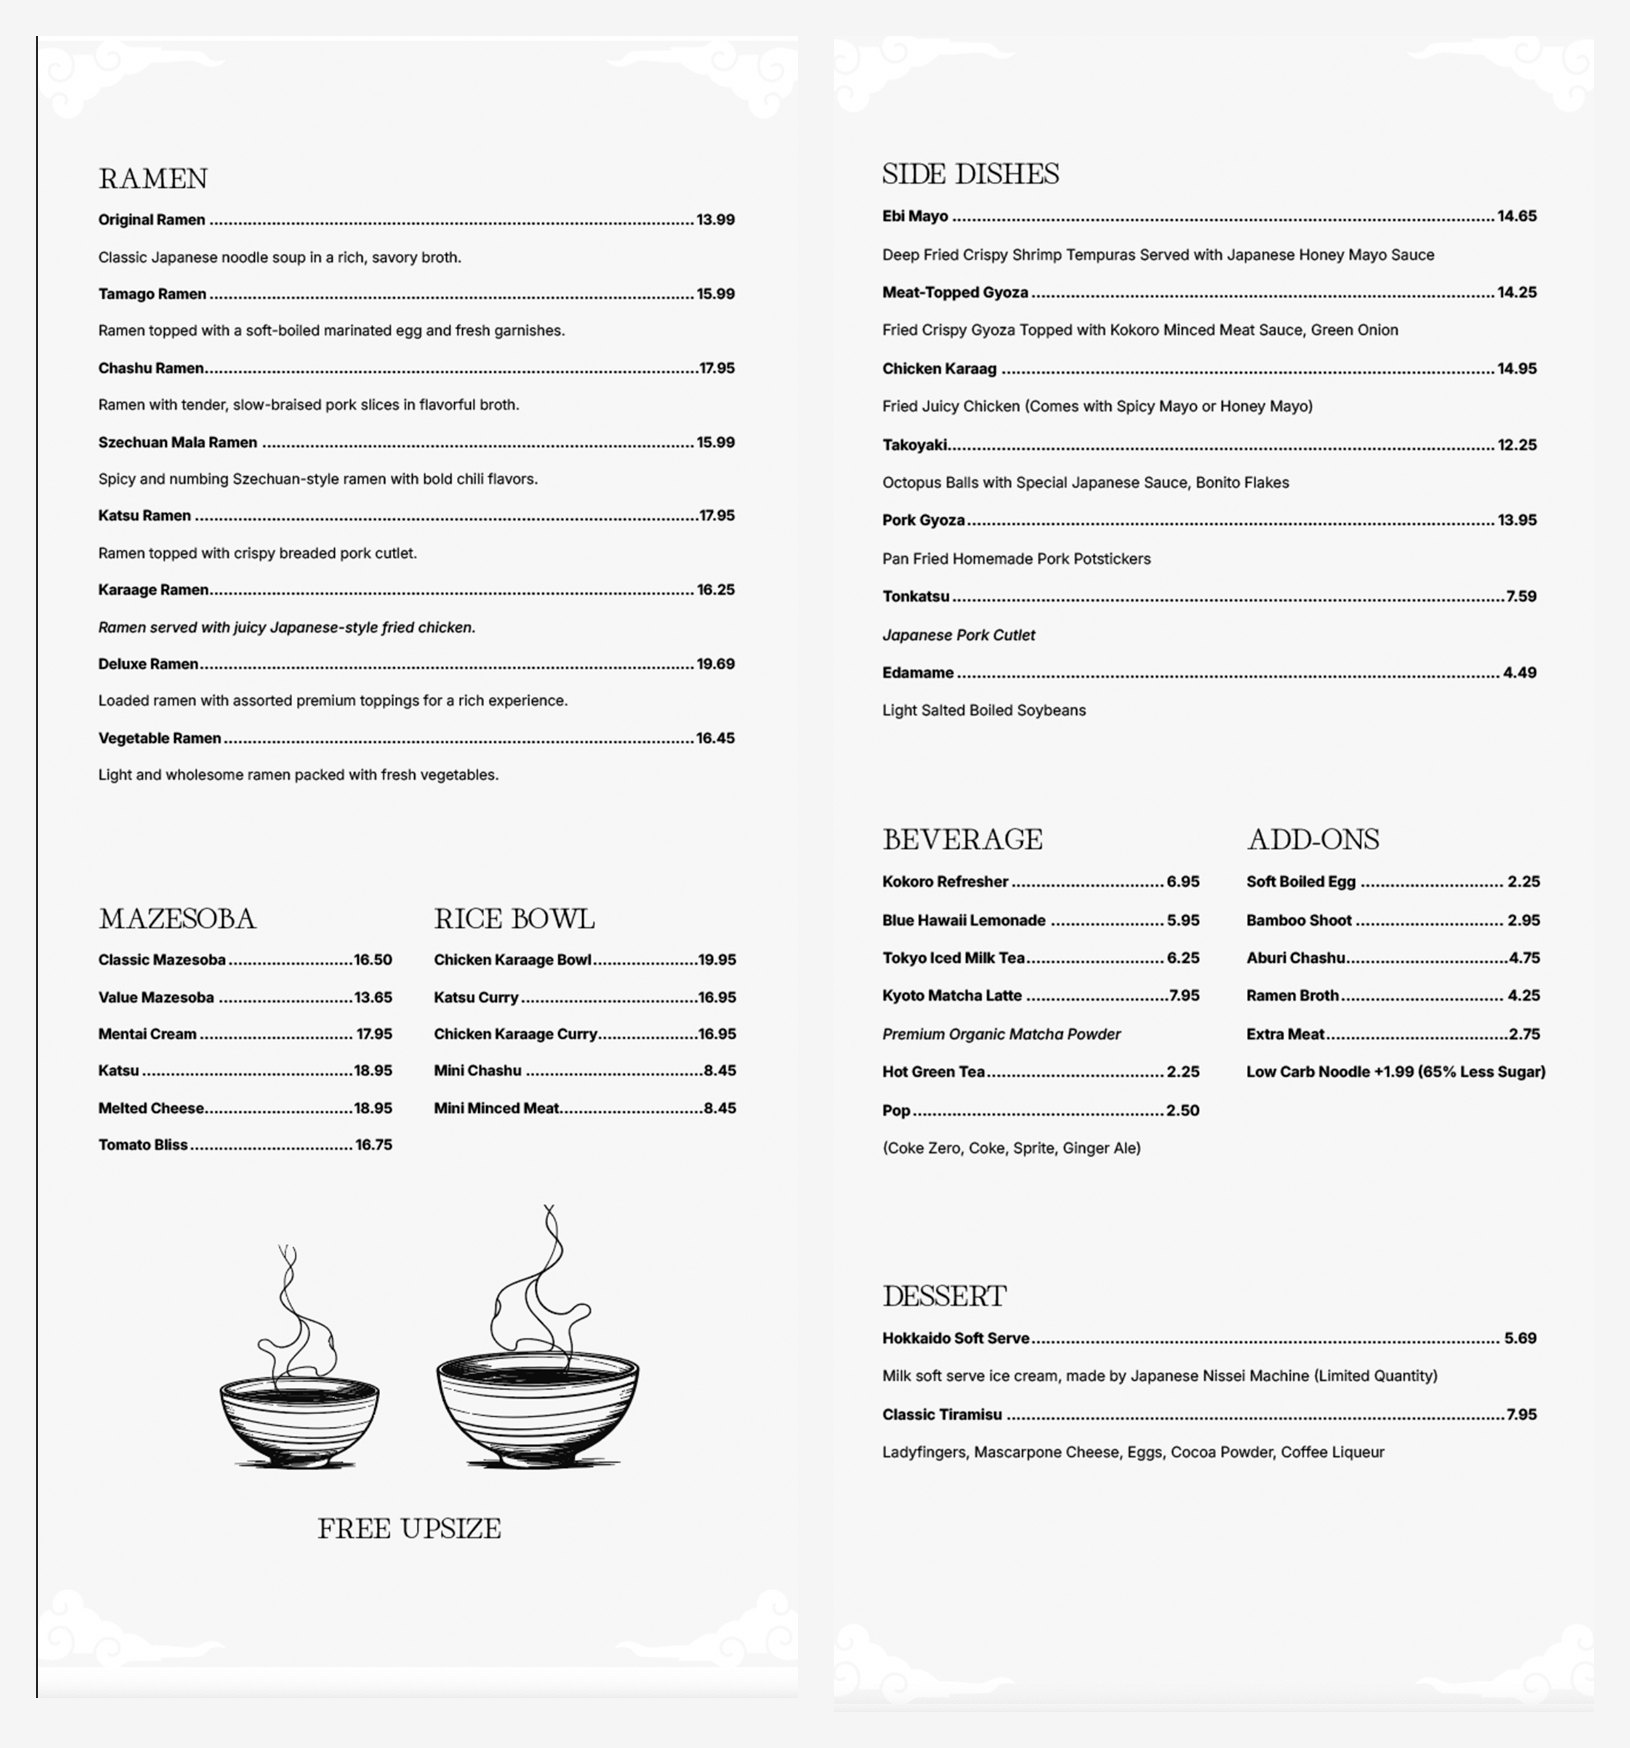
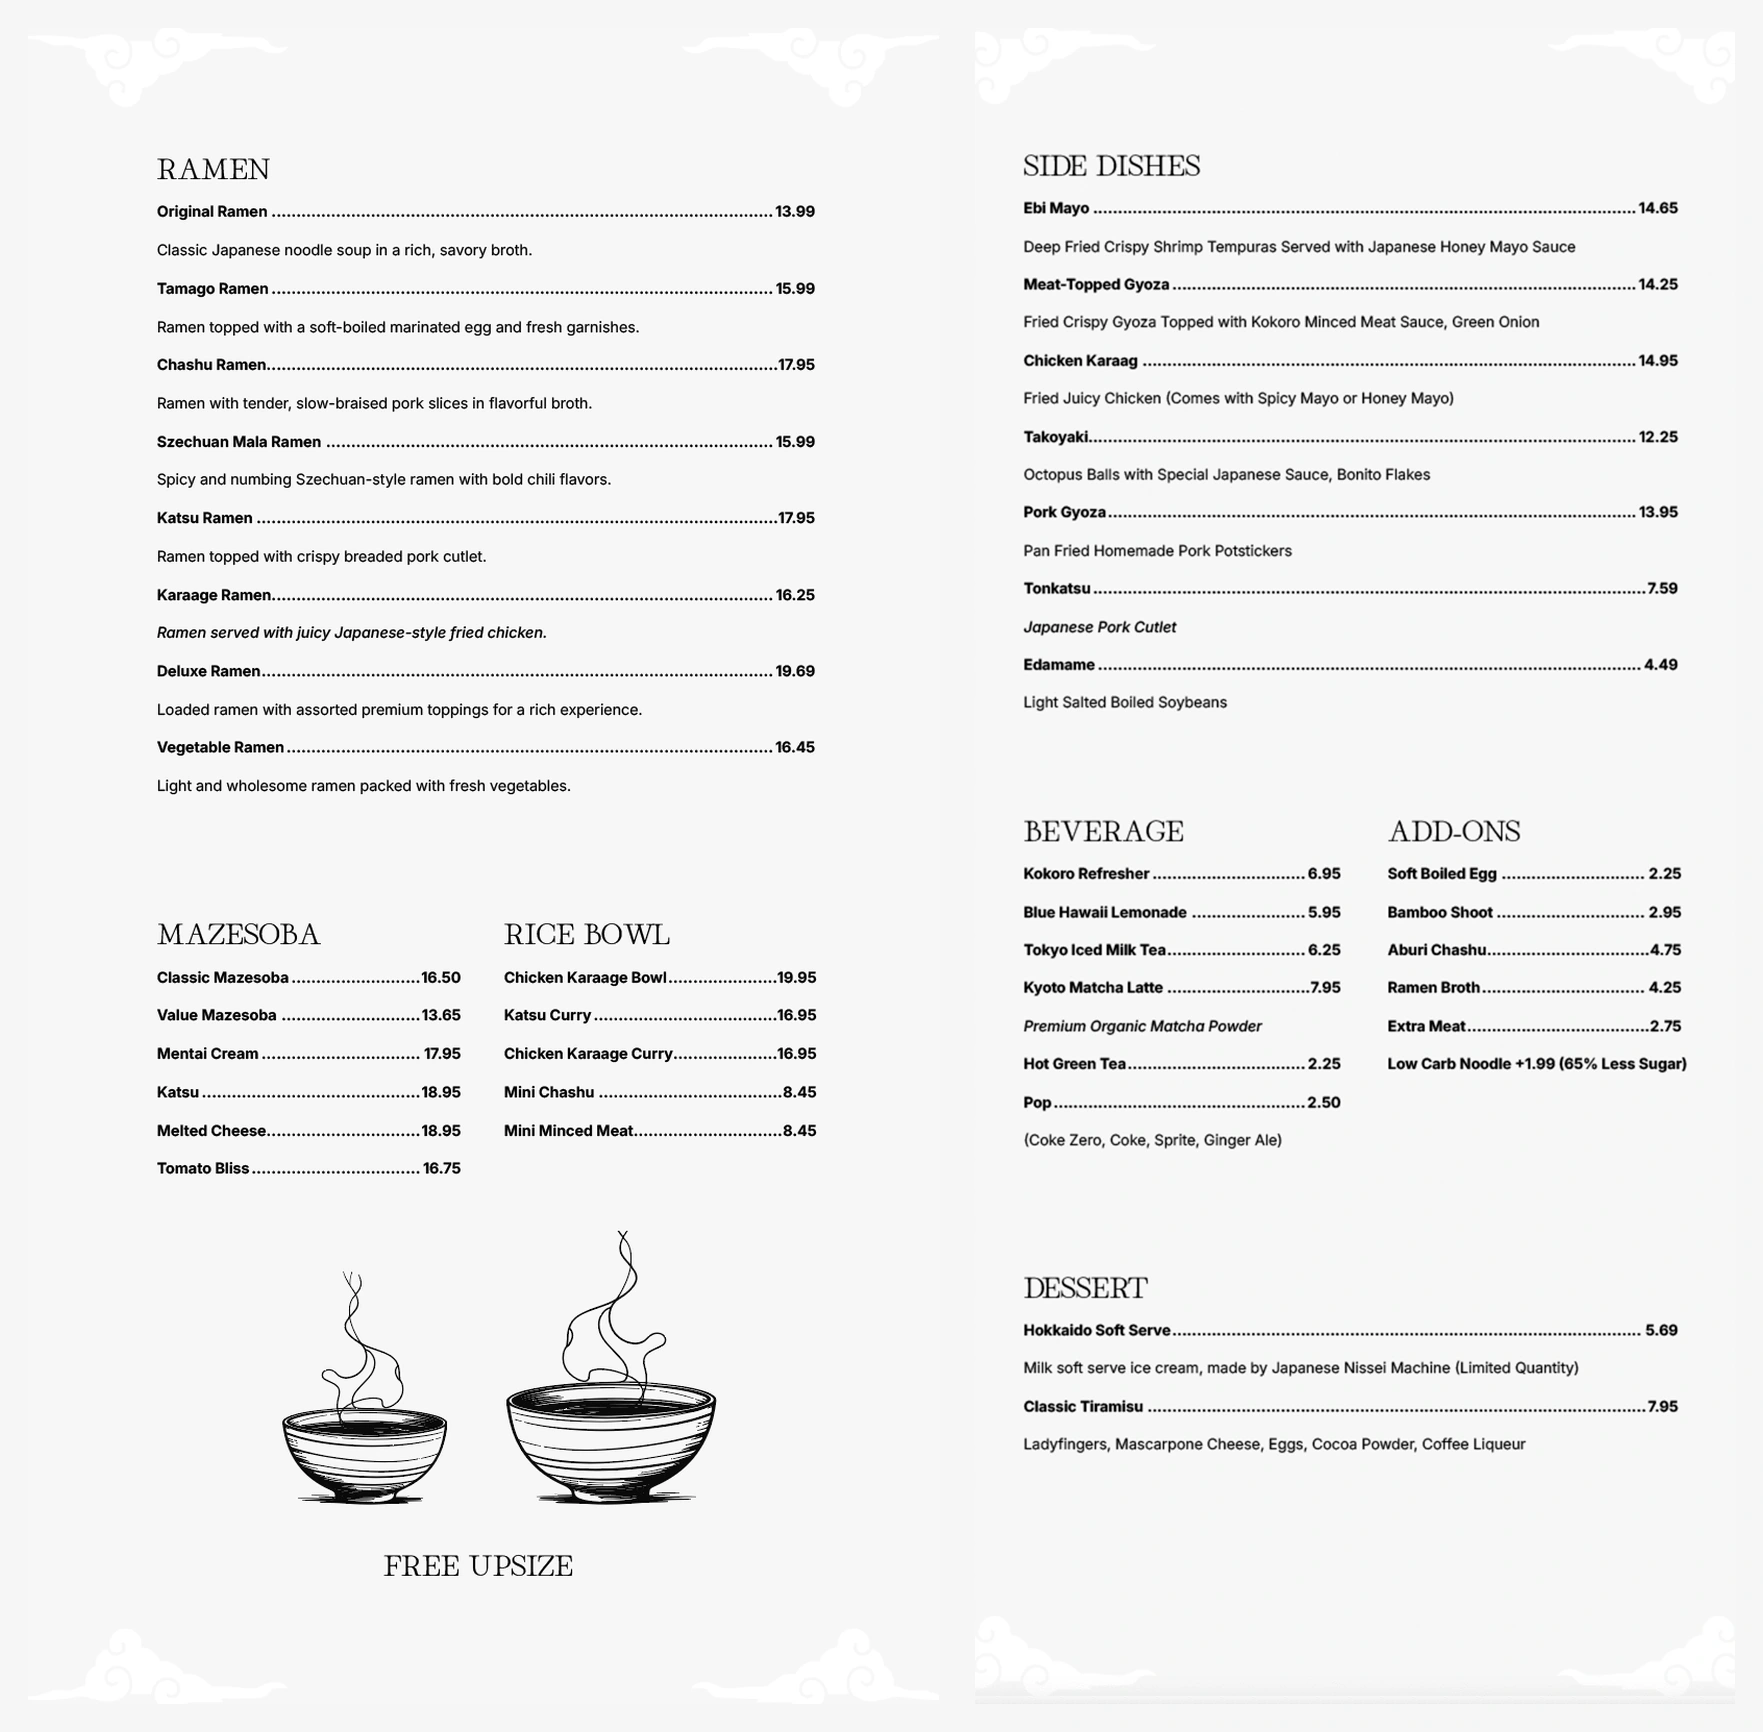
Update website

diff --git a/js/project-page.js b/js/project-page.js
@@ -172,6 +172,36 @@ document.addEventListener("DOMContentLoaded", () => {
     updateSlider(activeIndex + (dx < 0 ? 1 : -1));
   }, { passive: true });
 
+  // Mac trackpads emit horizontal wheel deltas for a two-finger swipe. Treat a
+  // deliberate horizontal gesture as carousel navigation, but leave portal
+  // viewports alone so their own horizontal/vertical scrolling still works.
+  let wheelLocked = false;
+  slider?.addEventListener("wheel", (event) => {
+    if (event.target.closest(".website-screenshot-scroll--both")) return;
+    const horizontal = Math.abs(event.deltaX);
+    const vertical = Math.abs(event.deltaY);
+    if (horizontal < 24 || horizontal <= vertical * 1.15 || wheelLocked) return;
+    event.preventDefault();
+    wheelLocked = true;
+    updateSlider(activeIndex + (event.deltaX > 0 ? 1 : -1));
+    window.setTimeout(() => { wheelLocked = false; }, 420);
+  }, { passive: false });
+
+  // Staff portal screenshots are intentionally wider than their browser frame.
+  // Start each one centred so the page does not look shifted to one side, while
+  // keeping full two-axis scrolling with a trackpad, mouse wheel or touch.
+  const centrePortalViewport = (scroller) => {
+    if (!scroller) return;
+    const centre = () => {
+      scroller.scrollLeft = Math.max(0, (scroller.scrollWidth - scroller.clientWidth) / 2);
+      scroller.scrollTop = 0;
+    };
+    const image = scroller.querySelector("img");
+    if (image?.complete) centre();
+    else image?.addEventListener("load", centre, { once: true });
+  };
+  track?.querySelectorAll(".website-screenshot-scroll--both").forEach(centrePortalViewport);
+
   updateSlider(0);
 
   const comparisonSection = document.querySelector("#project-comparison-section");

diff --git a/css/work.css b/css/work.css
@@ -1395,3 +1395,67 @@
     bottom: 10px;
   }
 }
+
+/* ===== v10 interaction polish ===== */
+
+/* Keep the Staff Portal browser frame and its wider screenshot visually centred. */
+.project-gallery-section--portal .project-slide--website {
+  display: grid;
+  place-items: center;
+}
+
+.project-gallery-section--portal .website-browser-frame {
+  margin-inline: auto;
+}
+
+.website-screenshot-scroll--both {
+  scrollbar-gutter: stable both-edges;
+  overscroll-behavior-x: contain;
+  overscroll-behavior-y: contain;
+}
+
+.website-screenshot-scroll--both img {
+  display: block;
+  margin-inline: auto;
+}
+
+/* The portfolio only needs a representative code sample. Keep the code window
+   compact and let visitors scroll inside it instead of making the page too long. */
+.project-code-pre {
+  max-height: clamp(220px, 28vw, 310px);
+  overflow: auto;
+  overscroll-behavior: contain;
+  scrollbar-gutter: stable;
+}
+
+/* Browser text wrapping: reduce awkward single-word final lines where supported. */
+.project-rationale p,
+.process-step p,
+.work-card p,
+.body-large,
+.project-summary,
+.footer-meta,
+.footer-links,
+.notes-list p,
+.discipline-card p,
+.process-card p {
+  text-wrap: pretty;
+  orphans: 3;
+  widows: 3;
+}
+
+.project-title,
+.section-title,
+.footer-title,
+.process-step h2,
+.work-card h2,
+.discipline-card h3,
+.process-card h3 {
+  text-wrap: balance;
+}
+
+@media (max-width: 620px) {
+  .project-code-pre {
+    max-height: 220px;
+  }
+}
